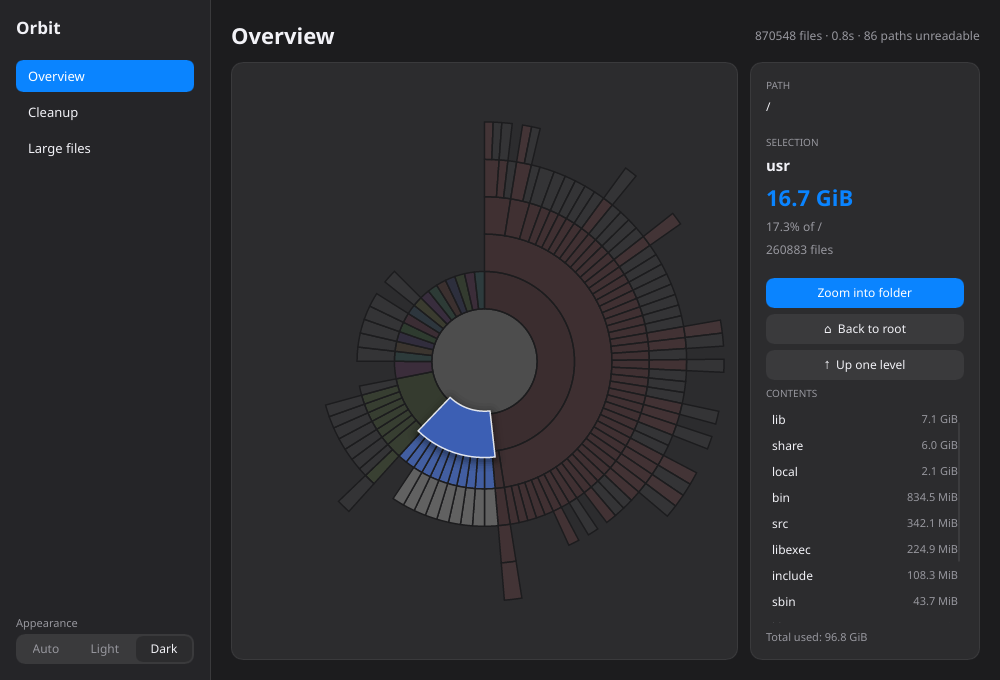
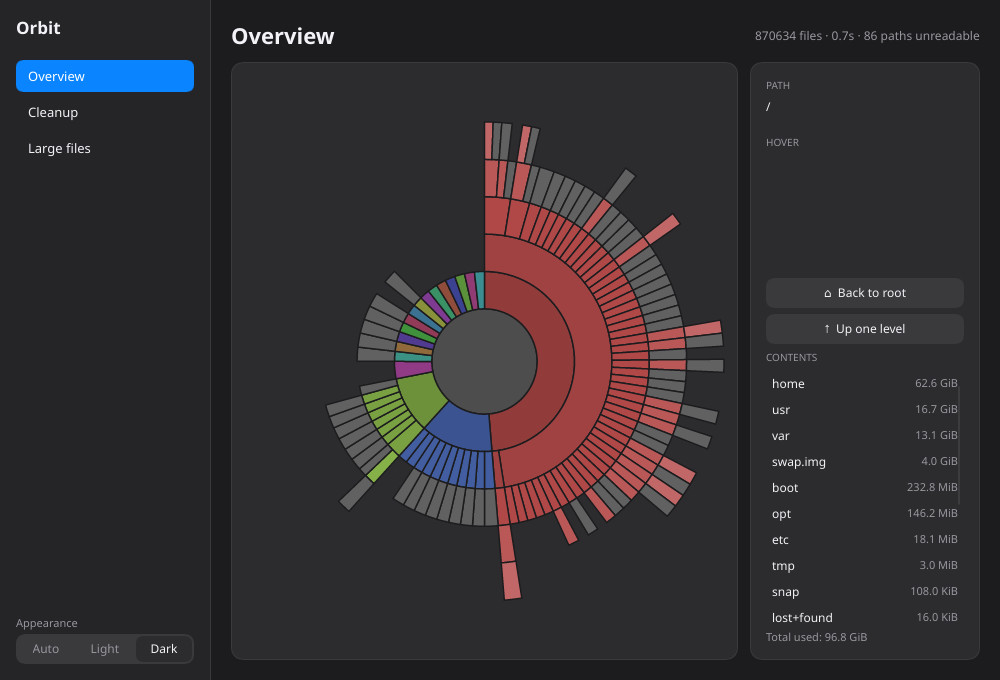
Changelog with release-notes extraction, dark-only screenshot in README

diff --git a/crates/app/src/main.rs b/crates/app/src/main.rs
@@ -354,10 +354,9 @@ fn stop_progress_timer() {
     PROGRESS_TIMER.with(|t| t.stop());
 }
 
-/// Dev helper for the README: select `/usr` (no personal paths), save the window
-/// as a PNG and quit. Triggered by `ORBIT_SCREENSHOT=<file>`.
-fn screenshot(ui: &MainWindow, root: &Node, out: PathBuf) {
-    update(ui, |s| s.selected = root.children.iter().find(|c| &*c.name == "usr").map(|c| c as *const Node));
+/// Dev helper for the README: save the window (whole chart, nothing selected) as a
+/// PNG and quit. Triggered by `ORBIT_SCREENSHOT=<file>`.
+fn screenshot(ui: &MainWindow, out: PathBuf) {
     let weak = ui.as_weak();
     Timer::single_shot(Duration::from_millis(700), move || {
         let snap = weak.upgrade().map(|ui| ui.window().take_snapshot());
@@ -465,7 +464,7 @@ fn start_scan(ui: &MainWindow, admin: bool) {
                     });
                     refresh_large(&root);
                     if let Some(out) = std::env::var_os("ORBIT_SCREENSHOT") {
-                        screenshot(&ui, &root, out.into());
+                        screenshot(&ui, out.into());
                     }
                     start_detect(&ui, root);
                 }

diff --git a/CHANGELOG.md b/CHANGELOG.md
@@ -1,0 +1,25 @@
+# Changelog
+
+All notable changes to Orbit are documented here.
+The format follows [Keep a Changelog](https://keepachangelog.com/en/1.1.0/) and the project uses [Semantic Versioning](https://semver.org/).
+
+Release notes on GitHub are generated from the section of the released version.
+
+## [Unreleased]
+
+## [0.1.0] - 2026-10-13
+
+First release.
+
+### Added
+- Parallel disk scanner: allocated sizes, hard links counted once, disk-backed mounts only, live progress.
+- Interactive sunburst chart rendered on the CPU: hover details, click to focus, double-click to zoom, small items stay selectable.
+- Cleanup page with risk levels for caches, project build artifacts (`node_modules`, Rust `target`, Python venvs), old snaps and kernels; Trash or permanent delete; admin tasks through one `pkexec` prompt.
+- Large files page with "Show in Files" and "Move to Trash".
+- Light, Dark and Auto theme (follows the GNOME color scheme live).
+- Read-only admin scan helper for root-only folders (`.deb` installs only).
+- `orbit-cli` for text summaries and cleanup listing.
+- `.deb` and tarball packaging, polkit policy, desktop entry and icon set.
+
+[Unreleased]: https://github.com/atasoglu/orbit/compare/v0.1.0...HEAD
+[0.1.0]: https://github.com/atasoglu/orbit/releases/tag/v0.1.0

diff --git a/README.md b/README.md
@@ -16,8 +16,7 @@
 </p>
 
 <p align="center">
-  <img src="docs/screenshot-dark.png" width="49%" alt="Orbit, dark theme">
-  <img src="docs/screenshot-light.png" width="49%" alt="Orbit, light theme">
+  <img src="docs/screenshot-dark.png" width="85%" alt="Orbit">
 </p>
 
 ## Features
